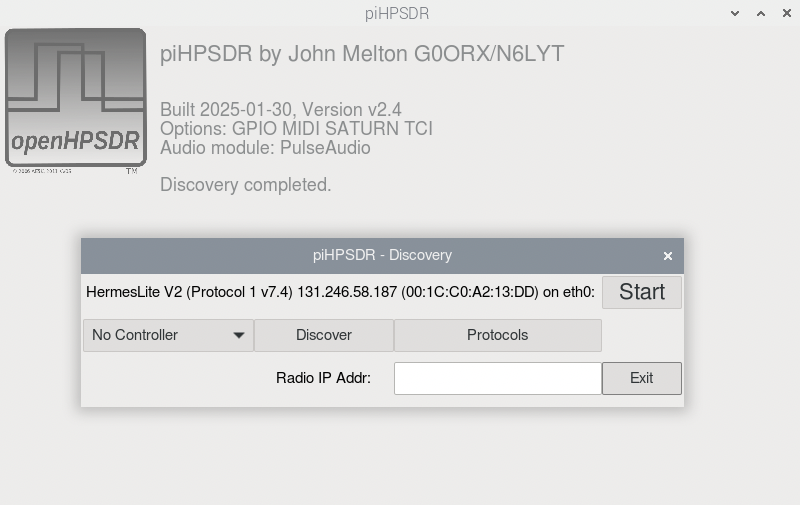
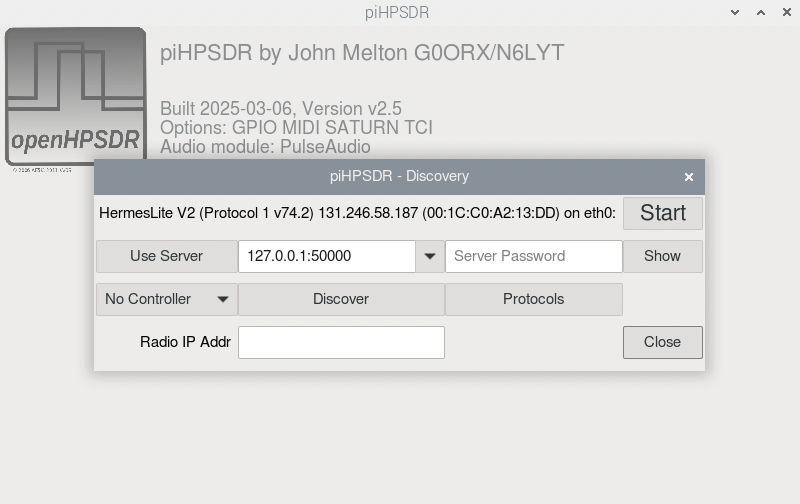
Added Client/Server section in Manual

diff --git a/release/LatexManual/piHPSDR-Manual.tex b/release/LatexManual/piHPSDR-Manual.tex
@@ -264,7 +264,11 @@ usually lets the problem vanish.
 If more than one radio is available, or a radio can be connected via more than one network interface,
 you will see several \rett{Start} buttons.
 If you see at least one \rett{Start} button, you can start the corresponding radio simply
-by clicking that button. But let us first explain the
+by clicking that button.
+
+The second line of control elementes, beginning with the \rett{Connect Server} button, belongs to the
+client/server feature that is described in chapter \ref{sec:clientserver}, so
+let us first explain the
 purpose of the other buttons! Easiest to explain is the \rett{Exit} button, this will simply terminate
 the program. Most likely, you may want to go into the \rett{Protocols} menu sooner or later.
 By default, \pH tries to discover the presence of a radio using all protocols known to \pH. However,
@@ -308,7 +312,7 @@ stores its settings. On a G2, this is usually \texttt{\$HOME/github/pihpsdr}.
 Sometimes \pH needs to know the IP address of the radio. This is, for example, the case for the
 \texttt{STEMlab} discovery
 described above. In such a case the IP address in numerical form (xxx.xxx.xxx.xxx) can be entered in the box
-with the label \rett{Radio IP Addr:}. If a legal IP address is contained in this box, protocol-1 and
+with the label \rett{Radio IP Addr}. If a legal IP address is contained in this box, protocol-1 and
 protocol-2 discovery queries
 will also be sent to the IP address specified, in addition to the standard broadcast discovery packets which
 can only reach
@@ -318,7 +322,7 @@ radio on the world
 provided it is on the internet. However, the original HPSDR standard states that a broadcast packet must be
 used, so radios strictly adhering to that standard
 won't reply. On the other hand, there are some radios such as a RedPitaya or a HermesLite-II which
-allow being discovered by such a routed (non-broadcast) packet.
+allow being discovered by such ``routed'' (non-broadcast) packets.
 
 The \rett{Discover} button re-starts the discovery process. This is useful if the radio has been powered up
 too late and
@@ -3987,7 +3991,83 @@ illegal use of the transmitter. While the password is stored un-encrypted on the
 model ensures that a non-encrypted password is never contained in the data stream connection the client and
 the server.
 
-This chapter is still under construction.
+In the \pH ``server`` instance (connected directly to the radio), client/server operation must be enabled
+via the \bltt{Server} menu, to be opened by a button in the bottom  part of the leftmost  column of the  main menu.
+The server menu is shown in Fig. \ref{fig:servermenu} and only has a few controls.
+
+\begin{figure}[ht]
+\center
+\includegraphics[scale=0.45]{ServerMenu.png}
+\caption{The \bltt{Server} menu}
+\label{fig:servermenu}
+\end{figure}
+
+The \rett{Server Enable} check-box can be used to enable or disable remote operation. If the box is not
+checked, a client cannot connect. The  spin-box  to the right of the \rett{Server Port} label lets the user
+choose the TCP port to be  used for remote operation. This must be a port that is not yet used on the
+computer running the \pH server instance. The default value 50000 works in most cases, but you can choose
+another value should the port 50000 be in use on your computer. Other ports used by \pH are 19090 (the default
+port for CAT-over-TCP) and 40000 (the default port for the TCI server).
+
+In the text entry field to the left of   the \rett{Server Password} label, you must enter a password for
+client-server operation. If it is a really long password, only the first 50 characters are used, and if it
+is shorter than 5 characters, no client is allowed to connect. No particular security measure is taken
+to protect the password on the server side: it is  shown while you type it into the  text field, and it is
+stored in the local preferences file without encryption. The idea here is that you set up the server
+in a private environment, and against those who manage to hack your computer running the \pH server instance
+there is nothing one can do from within \pH.
+
+Let us assume you have a server instance of \pH running, so how to connect  to it from a  remote location?
+Here it is useful to show again the discovery menu on the \pH start screen (Fig. \ref{fig:clientmenu}):
+
+\begin{figure}[ht]
+\center
+\includegraphics[scale=0.45]{ClientMenu.png}
+\caption{The discovery menu on the client side}
+\label{fig:clientmenu}
+\end{figure}
+
+Here, no local radios have been found as indicated in the first line. The second line contains the controls
+relevant for  client/server operation. There is a pop-down menu to the right of the \rett{Use Server} button.
+Here one has to specify the host address and port number of the server, address and port separated by a colon.
+For the host address, on can use numerical IP addresses of the form xxx.xxx.xxx.xxx but equally well a
+host name. The port number must, of course, match the port number specified in the \bltt{Server} menu in
+the \pH server instance (see above).
+
+In the \texttt{host:addr} pop-down menu, you can choose the entry matching your server. On a virgin system, this menu
+will  only show a default entry which is 127.0.0.1:50000, and an empty entry. By clicking into the text field, you
+can change an entry such that it matches for \pH server instance. You can also select the empty entry from
+the pop-down menu and enter a new \texttt{host:addr} pair, which will then be added to the list. The last element of
+the pop-down menu is always an empty one, so you can add as many different entries as you wish. If you select
+an entry, click  into the text  field and clear it, then this entry is  removed from the pop-down menu.
+In this way, you can configure your client computer to use several different \pH server instances, but also
+to use a \pH server instance that has different IP addresses or host names depending from where you connect.
+
+The second text field in the server line must be used to enter a password. This password will not be
+stored in the preferences file so you have to enter it each time you connect. By default, the last button in
+the server line reads \rett{Show} and the password is hidden (each character is represented by a bullet).
+If clicking the \rett{Show} button, its label changes to \rett{Hide} and the password becomes visible. You
+might have guessed that clicking the \rett{Hide} button then conceals the password again and the button
+label reads \rett{Show} again.
+
+\textbf{A note on network security:}
+The password you enter is \textbf{not} transmitted ``as is'' over the line. Instead, the server sends a random
+64-byte \textit{challenge} which is different for each connection.
+On the client side, a four-byte version number and the password is added
+to the challenge and a SHA256 key is built from the result and then sent back to the server. The server
+does the same with its version number and the password entered in the \bltt{Server} menu and then asserts
+that the two SHA256 keys are identical. This is most likely not top-notch cyber security, but should provide
+a decent level to fulfil your  obligations as a radio amateur to prevent your gear from unlawful use.
+If you feel you must go beyond, your option is to set up a VPN \textit{virtual private network} in which
+you can have cyber security provided by your network infrastructure rather than by an application such 
+as \pH.
+
+\textbf{Auto disconnect feature:} Equally important is to prevent that your radio stops transmitting if
+the connection to the client breaks down. To this end, the server closes the connection and goes RX if
+it has not received any command from the client for about 30 seconds, or if the attempt to read the
+next command from the client failed (the client will send and empty
+``heartbeat'' command every 15 seconds).
+
 %%%%%%%%%%%%%%%%%%%%%%%%%%%%%%%%%%%%%%%%%%%%%%%%%%%%%%%%%%%%%%%%%%%%%%%%%%%%%%%%%%%%%%%%%%%%%%%%%%%%%%%%%%%%
 %%%%%%%%%%%%%%%%%%%%%%%%%%%%%%%%%%%%%%%%%%%%%%%%%%%%%%%%%%%%%%%%%%%%%%%%%%%%%%%%%%%%%%%%%%%%%%%%%%%%%%%%%%%%
 \chapter{Miscellaneous Topics}
@@ -7103,11 +7183,6 @@ This option is not activated by default since it delays the startup a little bit
 avoided if  there is no need for it, and it needs the \texttt{libcurl}  library to be installed on your system.
 }
 
-\item[\rett{TCI}] {(default: \texttt{ON})
-With this option,  \pH can start a TCI server that communicates operating frequencies
-and modes to logbook programs or PAs. The TCI code depends on the OpenSSL library, and the only reason to
-deactivate TCI is if  this library is  not available on your system.}
-
 \item[\rett{AUDIO}] {(default: empty)
 On Linux systems (including the Raspberry PI), if setting the value to \texttt{ALSA},
 the standard Linux ALSA sound library is used for local audio
@@ -7129,17 +7204,6 @@ reduction facilities which are based on  \texttt{rnnnoise} and \texttt{libspecbl
  that the WDSP shared library is installed in \texttt{/usr/local/lib} and the WDSP header file
  in \texttt{/usr/local/include}. The \texttt{wdsp} directory that is part of
  the \pH repository is not used if \texttt{EXTENDED\_NR} is activated.}
-
-
-%\item[\rett{SERVER}] {(\textbf{Unfinished/Experimental}, default: \texttt{OFF})
-% This is not yet completed but is mentioned here anyway. There are plans to have
-% a client/server model in \pH such that you can have a ,,distant'' radio with a computer
-% running \pH connected to that radio, and a ,,local'' computer running \pH, and an
-% internet connection between the two computers. All the time-critical data exchange happens
-% between the ,,distant'' radio and the ,,distant'' computer using a straight internet
-% cable connection, while the user interface data is exchanged between the two copies of
-% \pH running on the two computers.
-%}
 
 \end{itemize}
 %%%%%%%%%%%%%%%%%%%%%%%%%%%%%%%%%%%%%%%%%%%%%%%%%%%%%%%%%%%%%%%%%%%%%%%%%%%%%%%%%%%%%%%%%%%%%%%%%%%%%%%%%%%%
@@ -7675,10 +7739,26 @@ files with saved preferences (\texttt{*.props}) which you may want to re-use.
 
 The \pH repository is downloaded, and support libraries are installed, with the commands
 
+\grtt{cd \$HOME} \\
 \grtt{git clone https://github.com/dl1ycf/pihpsdr} \\
 \grtt{cd pihpsdr} \\
 \grtt{MacOS/libinstall.sh} \\
 
+The \texttt{git clone} command loads the \pH repository, and with the command
+\texttt{MacOS/libinstall.sh} 
+(which is then executed within the just-created \texttt{pihpsdr} directory) installs the
+ \texttt{HomeBrew} universe. Installing \texttt{HomeBrew} starts with asking you for the administrator
+ password, tells you what it wants to do and requires hitting \texttt{Enter} to proceed.
+Do not worry if \texttt{HomeBrew} was already installed on your computer, the installation
+procedure works in this case as well and does no harm. In addition to
+ the \texttt{HomeBrew} core, additional libraries that \pH depends on (e.g. GTK\texttt{+}3), the SoapySDR
+ core and SoapySDR modules for several radios are installed.
+
+ In case something went wrong, or simply to check that \texttt{HomeBrew} has been correctly installed,
+ open a \textit{new} terminal window and type the command
+
+
+\grtt{brew config}
 
 \begin{center}
 \fbox{
@@ -7708,20 +7788,7 @@ to switch between version with the \texttt{git} command can be given in this man
 }
 \end{center}
 
-The ,,git clone'' command loads the \pH repository, and the libinstall.sh command (that is
-within this repository) installs the
- \texttt{HomeBrew} universe. Installing \texttt{HomeBrew} starts with asking you for the administrator
- password, tells you what it wants to do and requires hitting \texttt{Enter} to proceed.
-Do not worry if \texttt{HomeBrew} was already installed on your computer, the installation
-procedure works in this case as well and does no harm. In addition to
- the \texttt{HomeBrew} core, additional libraries that \pH depends on (e.g. GTK\texttt{+}3), the SoapySDR
- core and SoapySDR modules for several radios are installed.
 
- In case something went wrong, or simply to check that \texttt{HomeBrew} has been correctly installed,
- open a \textit{new} terminal window and type the command
-
-
-\grtt{brew config}
 
  This should give you lots of information on the currently installed version of \texttt{HomeBrew},
  but also on the CPU of your machine, the compilers and MacOS version info, etc. If the command
